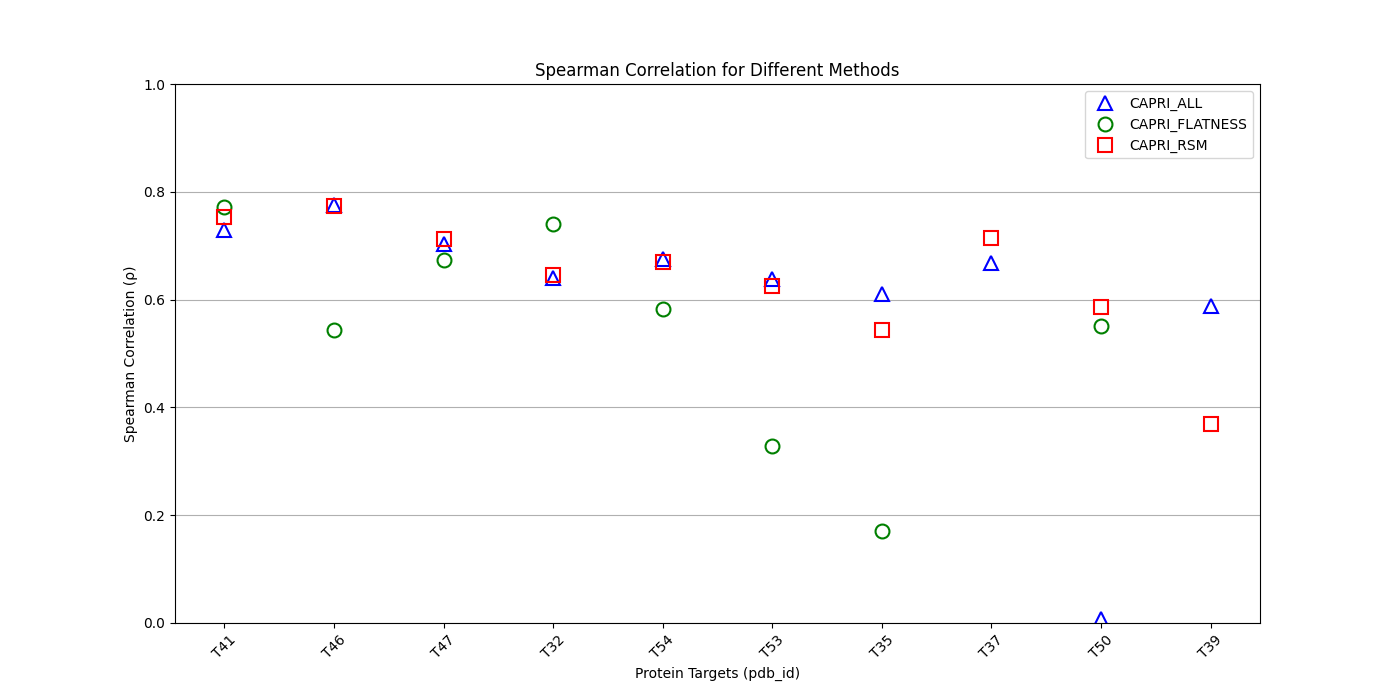
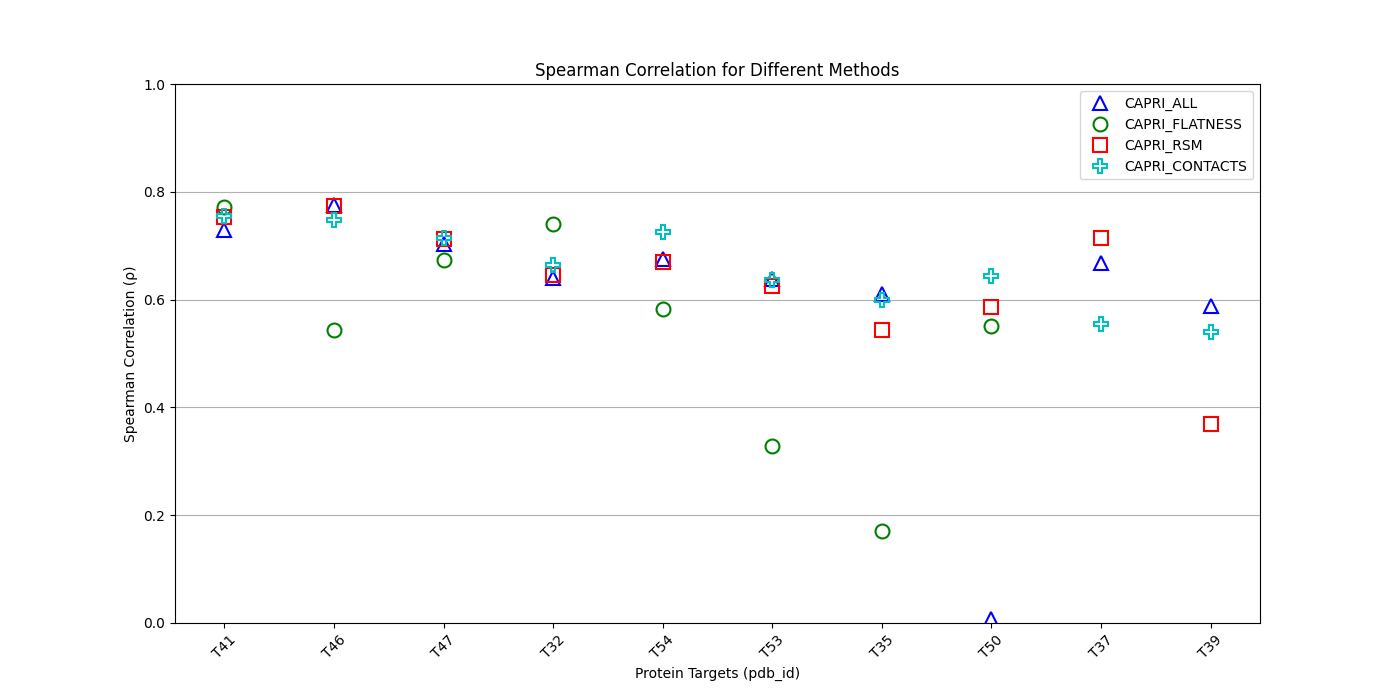
Updated spearman graph again

diff --git a/find_spearman/plot_spearman_summary.py b/find_spearman/plot_spearman_summary.py
@@ -3,7 +3,7 @@ import matplotlib.pyplot as plt
 import numpy as np
 
 # Load data from CSV files
-methods = ['CAPRI_ALL', 'CAPRI_FLATNESS', 'CAPRI_RSM']
+methods = ['CAPRI_ALL', 'CAPRI_FLATNESS', 'CAPRI_RSM', 'CAPRI_CONTACTS']
 data = {}
 for method in methods:
     data[method] = pd.read_csv(f'/home/annsong/Desktop/Yale_Research_Internship_24/Protein-Decoy-Detection-SVR/all_predictions/{method}.csv')
